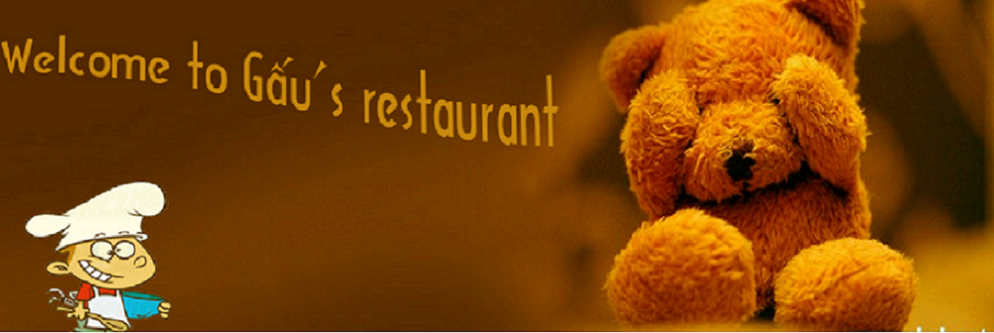
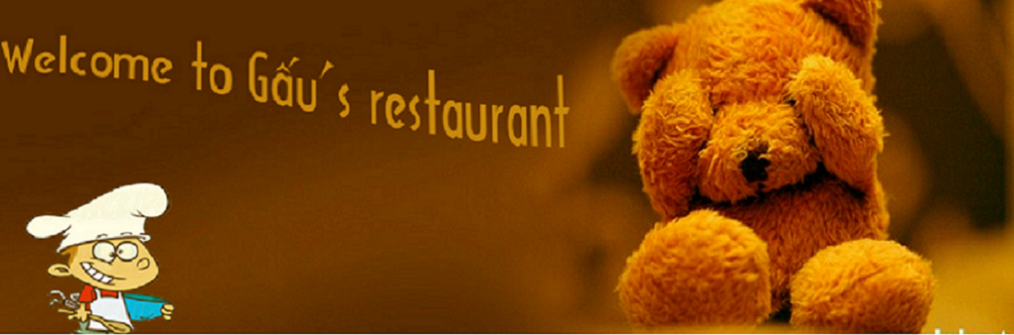
Update Signin form

diff --git a/GAU_CLC/style.css b/GAU_CLC/style.css
@@ -4,20 +4,20 @@
 li{
     list-style: none;
 }
+
 a{
     text-decoration: none;
     color: #fff;
 }
 
 body {
-	background-image: url(image/Background.png);
-	background-repeat: no-repeat;
-	background-attachment: fixed;
+	background: url(image/Background.png) no-repeat fixed;
+	font: 15px Arial;
 }
 
 .cover{
-    width: 994px;
-    height:333px;
+    width: 1014px;
+    height:335px;
     background: url(image/cover.png) no-repeat;
     margin-top: 0px auto;
     margin:  0px auto;
@@ -25,8 +25,8 @@ body {
 
 
 .khungchinh{
-    width:994px; 
-    height: 62px;
+    width:1014px; 
+    height: 61px;
     background: #F8182A;
     margin: 0px auto;
     margin-top: -1px;
@@ -34,7 +34,7 @@ body {
 
 .khungchinh>ul>li{
     float: left;
-    padding: 21px 61.9px;
+    padding: 21px 61.4px;
     position: relative;
     
 }
@@ -48,7 +48,7 @@ body {
     background: #F8182A;
     top:60px;
     left:0px;
-    width:198px;
+    width:171px;
 }
 .khungchinh>ul>li:hover ul{ 
     display: block;
@@ -58,5 +58,5 @@ body {
     transition: all 0.25s;
 }
 .khungchinh>ul>li>ul>li{
-    padding: 21px 59px;
+    padding: 19px 61.4px;
 }

diff --git a/GAU_CLC/Code.html b/GAU_CLC/Code.html
@@ -8,9 +8,14 @@
 		
 	<body>
 		<div class="cover">
-			<div style="text-align: right;"> 
-				
-				<span style="color: white;"><a href="dangnhap.html"> ĐĂNG NHẬP</a> | <a href="dangki.htm">ĐĂNG KÍ</A></span>
+			<div class="TopBar" align="right"> 
+				<a href="#" target="blank">	
+					<img src="image/fb_ico.ico" alt="Follow us on Facebook" title="Follow us on Facebook">
+				</a>
+				<a href="#" target="blank">
+					<img src="image/twitter_ico.ico" alt="Follow us on Twitter" title="Follow us on Twitter">
+				</a>
+				<span style="color: white;"><a href="dangnhap.html"> Đăng nhập</a>
 			</div>
 		</div>
     		<div class="khungchinh" >
@@ -20,7 +25,7 @@
             			<li><a href="#">Đặt hàng</a></li>
 						<li><a href="#">Quản lí</a>
 						<ul>
-							<li><a href="Add.php">Thêm Món</a></li>
+							<li><a href="Add.php">Thêm món</a></li>
 							<li><a href="#">Xóa</a></li>
 						</ul>
             			<li><a href="#">Liên hệ</a></li>

diff --git a/GAU_CLC/head.html b/GAU_CLC/head.html
@@ -15,7 +15,7 @@
             			<li><a href="#">Đặt hàng</a></li>
 						<li><a href="#">Quản lí</a>
 						<ul>
-							<li><a href="Add.php">Thêm Món</a></li>
+							<li><a href="Add.php">Thêm món</a></li>
 							<li><a href="#">Xóa</a></li>
 						</ul>
             			<li><a href="#">Liên hệ</a></li>

diff --git a/GAU_CLC/end.html b/GAU_CLC/end.html
@@ -25,7 +25,6 @@
 								<li> Địa chỉ: 144 Xuân Thủy, Cầu Giấy, Hà Nội </li>
 								<li> Điện thoại: 0912345678 </li>
 								<li> Facebook:<li>
-								<li> <a href = "Code.html">Về trang chủ</a></li>
 							</ul>
 						</div></td>
 						</tr>
